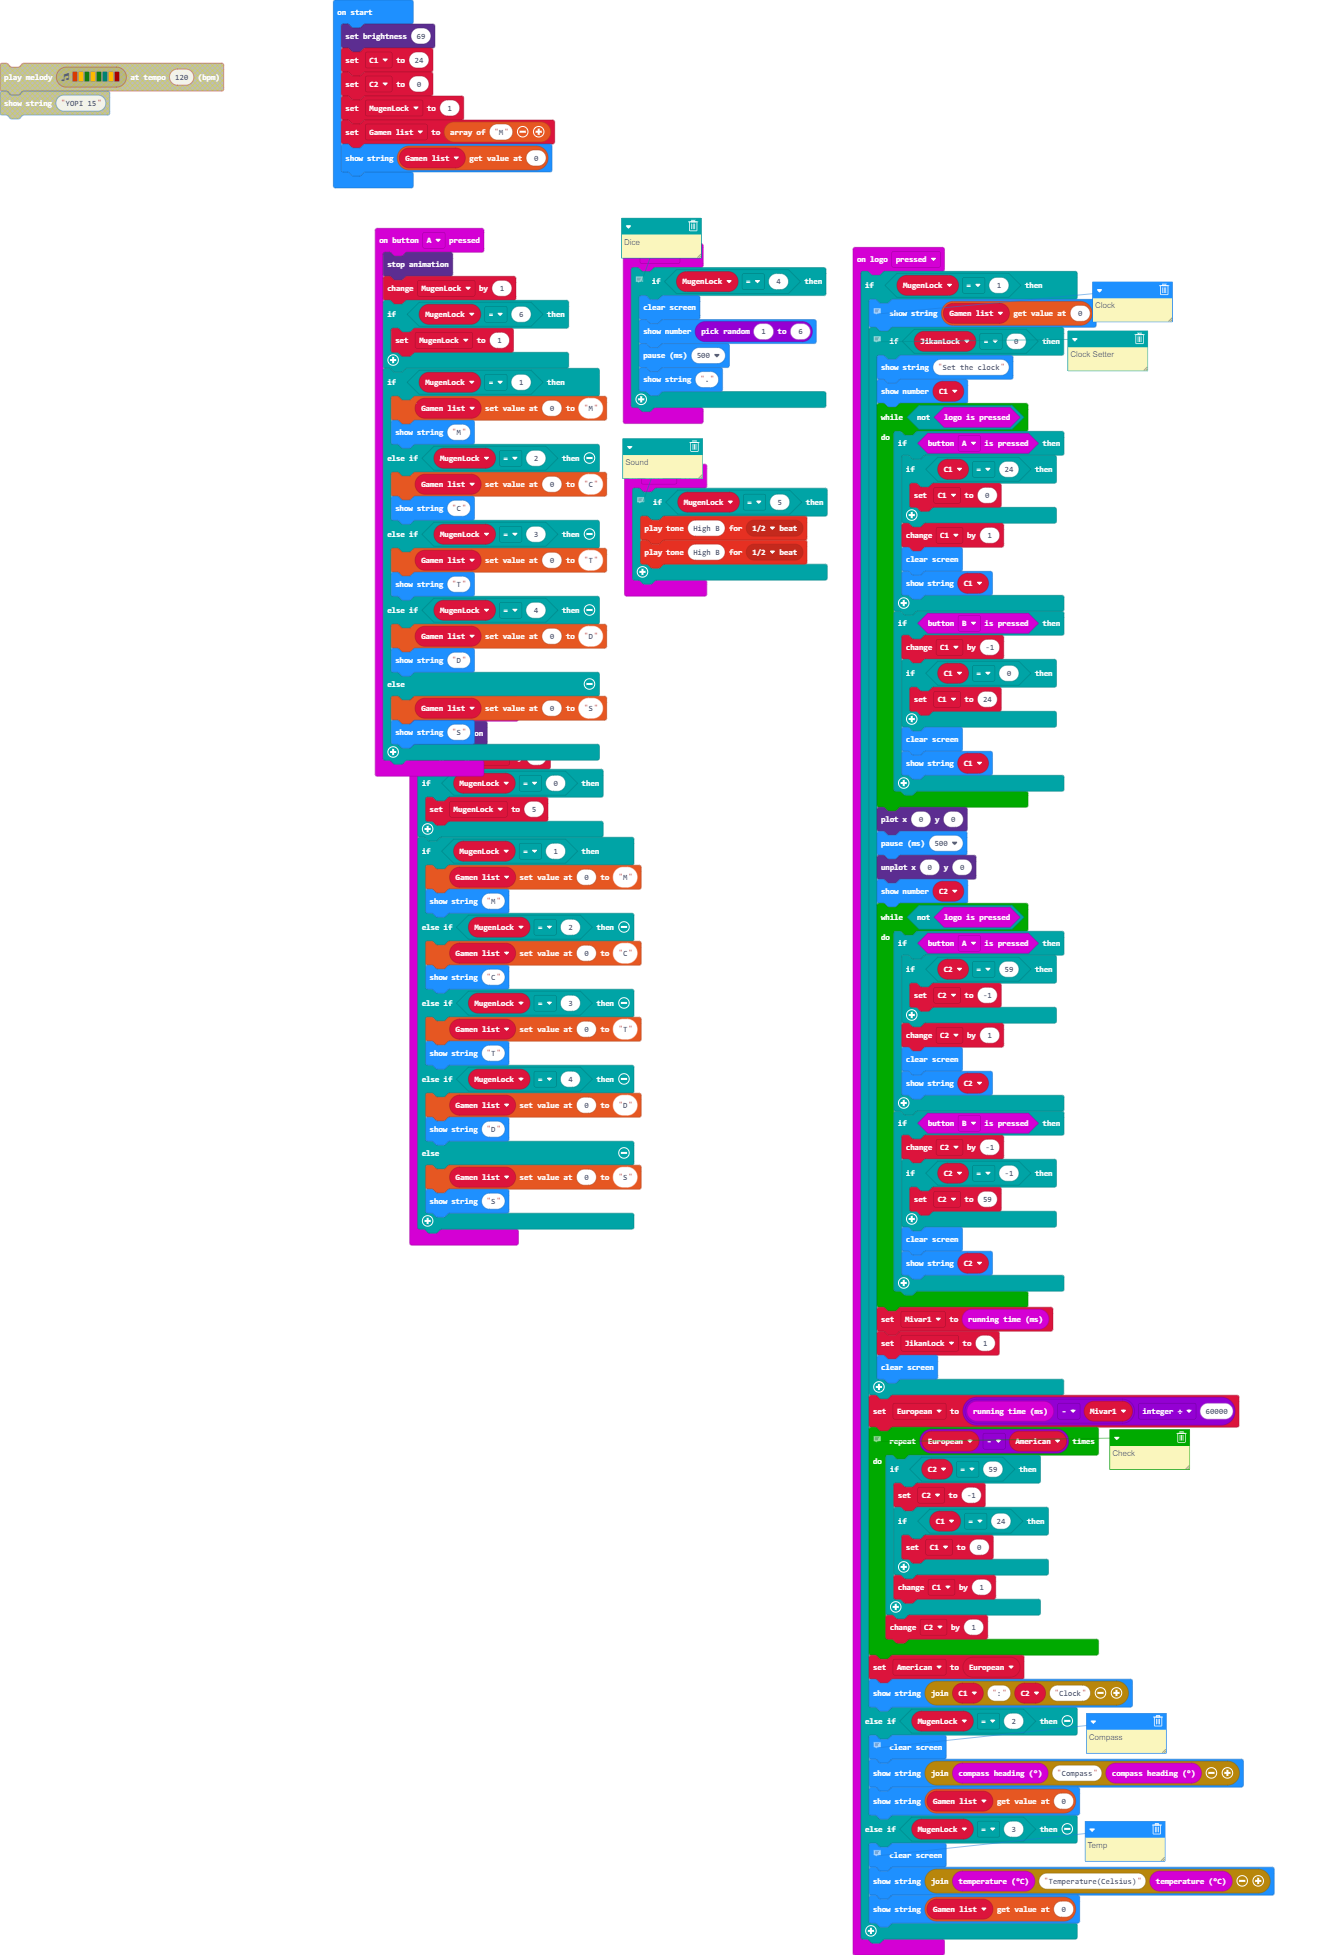
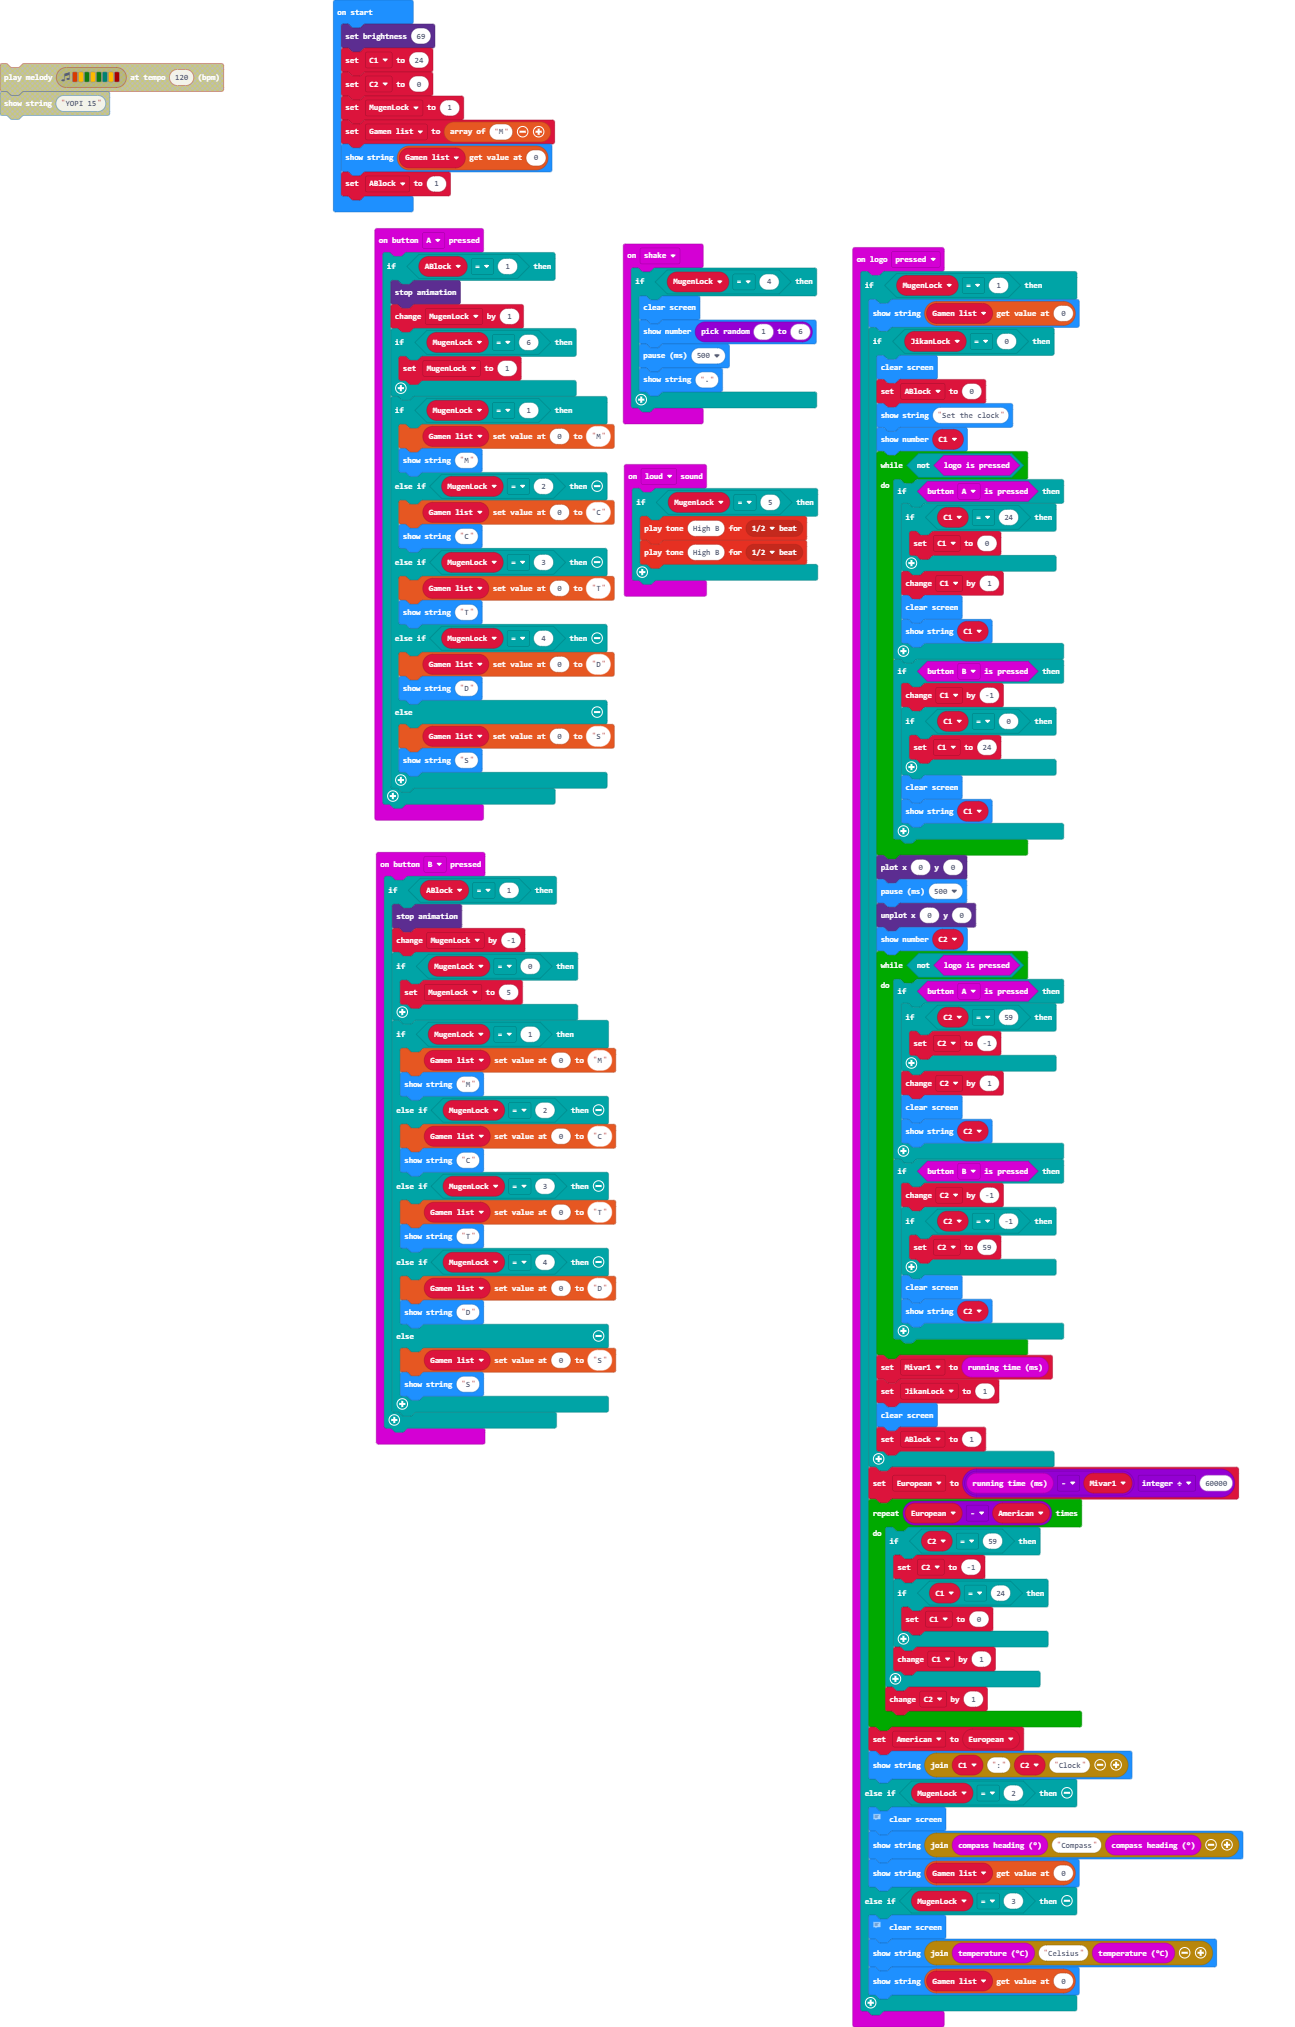
Update main.blocks, main.ts

Changed region(s): [[0.2471, 0.0, 0.9575, 1.0], [0.0, 0.0312, 0.1853, 0.0624]]

diff --git a/main.ts b/main.ts
@@ -1,58 +1,60 @@
 input.onButtonPressed(Button.A, function () {
-    led.stopAnimation()
-    MugenLock += 1
-    if (MugenLock == 6) {
-        MugenLock = 1
-    }
-    if (MugenLock == 1) {
-        Gamen_list[0] = "M"
-        basic.showString("M")
-    } else if (MugenLock == 2) {
-        Gamen_list[0] = "C"
-        basic.showString("C")
-    } else if (MugenLock == 3) {
-        Gamen_list[0] = "T"
-        basic.showString("T")
-    } else if (MugenLock == 4) {
-        Gamen_list[0] = "D"
-        basic.showString("D")
-    } else {
-        Gamen_list[0] = "S"
-        basic.showString("S")
+    if (ABlock == 1) {
+        led.stopAnimation()
+        MugenLock += 1
+        if (MugenLock == 6) {
+            MugenLock = 1
+        }
+        if (MugenLock == 1) {
+            Gamen_list[0] = "M"
+            basic.showString("M")
+        } else if (MugenLock == 2) {
+            Gamen_list[0] = "C"
+            basic.showString("C")
+        } else if (MugenLock == 3) {
+            Gamen_list[0] = "T"
+            basic.showString("T")
+        } else if (MugenLock == 4) {
+            Gamen_list[0] = "D"
+            basic.showString("D")
+        } else {
+            Gamen_list[0] = "S"
+            basic.showString("S")
+        }
     }
 })
 input.onSound(DetectedSound.Loud, function () {
-    // Sound
     if (MugenLock == 5) {
         music.playTone(988, music.beat(BeatFraction.Half))
         music.playTone(988, music.beat(BeatFraction.Half))
     }
 })
 input.onButtonPressed(Button.B, function () {
-    led.stopAnimation()
-    MugenLock += -1
-    if (MugenLock == 0) {
-        MugenLock = 5
-    }
-    if (MugenLock == 1) {
-        Gamen_list[0] = "M"
-        basic.showString("M")
-    } else if (MugenLock == 2) {
-        Gamen_list[0] = "C"
-        basic.showString("C")
-    } else if (MugenLock == 3) {
-        Gamen_list[0] = "T"
-        basic.showString("T")
-    } else if (MugenLock == 4) {
-        Gamen_list[0] = "D"
-        basic.showString("D")
-    } else {
-        Gamen_list[0] = "S"
-        basic.showString("S")
+    if (ABlock == 1) {
+        led.stopAnimation()
+        MugenLock += -1
+        if (MugenLock == 0) {
+            MugenLock = 5
+        }
+        if (MugenLock == 1) {
+            Gamen_list[0] = "M"
+            basic.showString("M")
+        } else if (MugenLock == 2) {
+            Gamen_list[0] = "C"
+            basic.showString("C")
+        } else if (MugenLock == 3) {
+            Gamen_list[0] = "T"
+            basic.showString("T")
+        } else if (MugenLock == 4) {
+            Gamen_list[0] = "D"
+            basic.showString("D")
+        } else {
+            Gamen_list[0] = "S"
+            basic.showString("S")
+        }
     }
 })
 input.onGesture(Gesture.Shake, function () {
-    // Dice
     if (MugenLock == 4) {
         basic.clearScreen()
         basic.showNumber(randint(1, 6))
@@ -62,10 +64,10 @@ input.onGesture(Gesture.Shake, function () {
 })
 input.onLogoEvent(TouchButtonEvent.Pressed, function () {
     if (MugenLock == 1) {
-        // Clock
         basic.showString("" + (Gamen_list[0]))
-        // Clock Setter
         if (JikanLock == 0) {
+            basic.clearScreen()
+            ABlock = 0
             basic.showString("Set the clock")
             basic.showNumber(C1)
             while (!(input.logoIsPressed())) {
@@ -111,9 +113,9 @@ input.onLogoEvent(TouchButtonEvent.Pressed, function () {
             Mivar1 = input.runningTime()
             JikanLock = 1
             basic.clearScreen()
+            ABlock = 1
         }
         European = Math.idiv(input.runningTime() - Mivar1, 60000)
-        // Check
         for (let index = 0; index < European - American; index++) {
             if (C2 == 59) {
                 C2 = -1
@@ -134,7 +136,7 @@ input.onLogoEvent(TouchButtonEvent.Pressed, function () {
     } else if (MugenLock == 3) {
         // Temp
         basic.clearScreen()
-        basic.showString("" + input.temperature() + "Temperature(Celsius)" + input.temperature())
+        basic.showString("" + input.temperature() + "Celsius" + input.temperature())
         basic.showString("" + (Gamen_list[0]))
     }
 })
@@ -142,6 +144,7 @@ let American = 0
 let European = 0
 let Mivar1 = 0
 let JikanLock = 0
+let ABlock = 0
 let Gamen_list: string[] = []
 let MugenLock = 0
 let C2 = 0
@@ -152,3 +155,4 @@ C2 = 0
 MugenLock = 1
 Gamen_list = ["M"]
 basic.showString("" + (Gamen_list[0]))
+ABlock = 1
